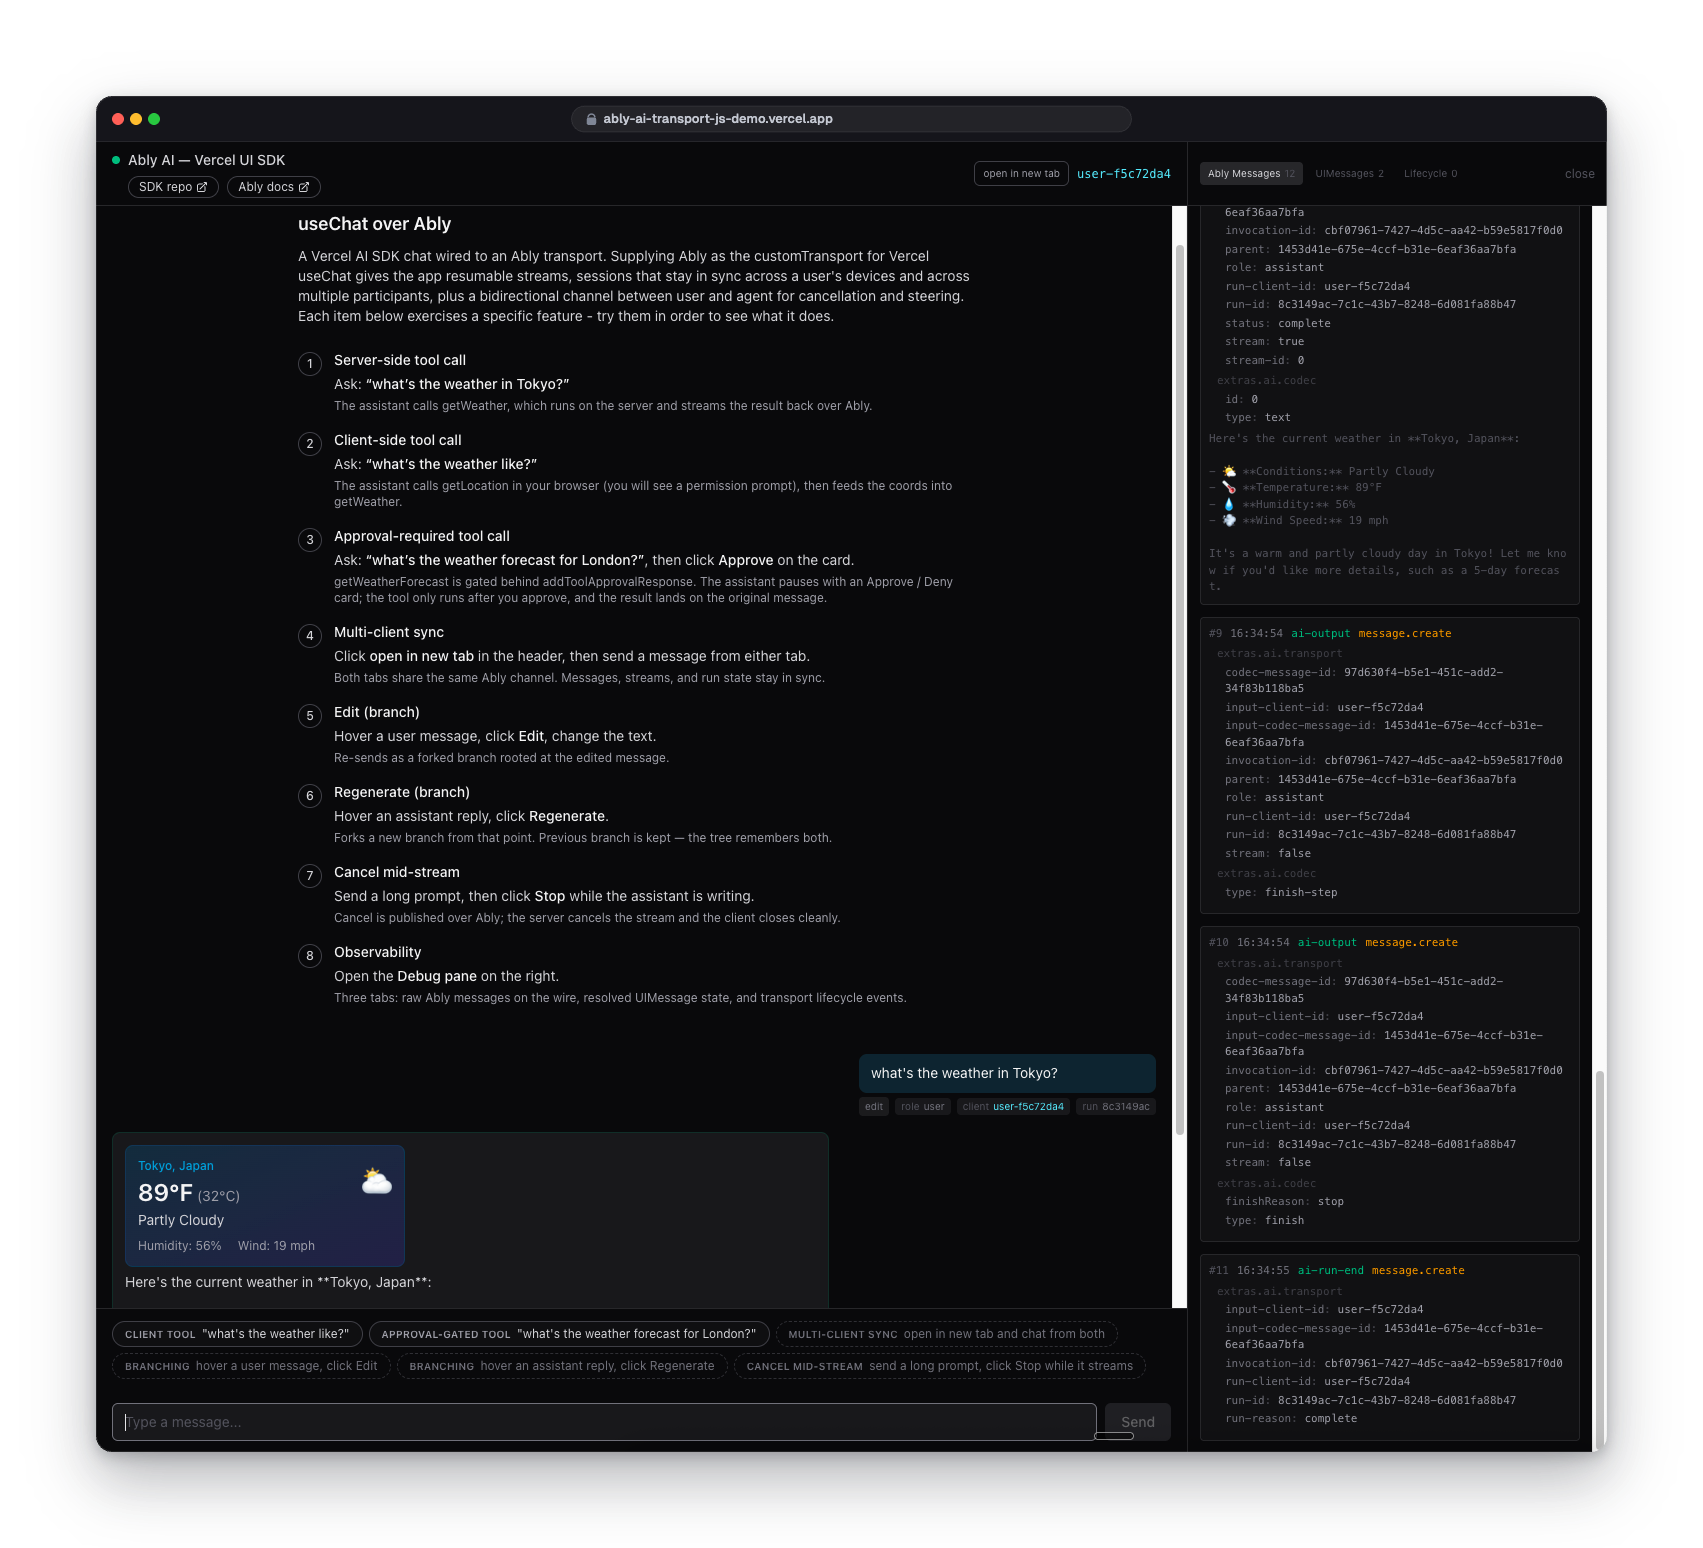
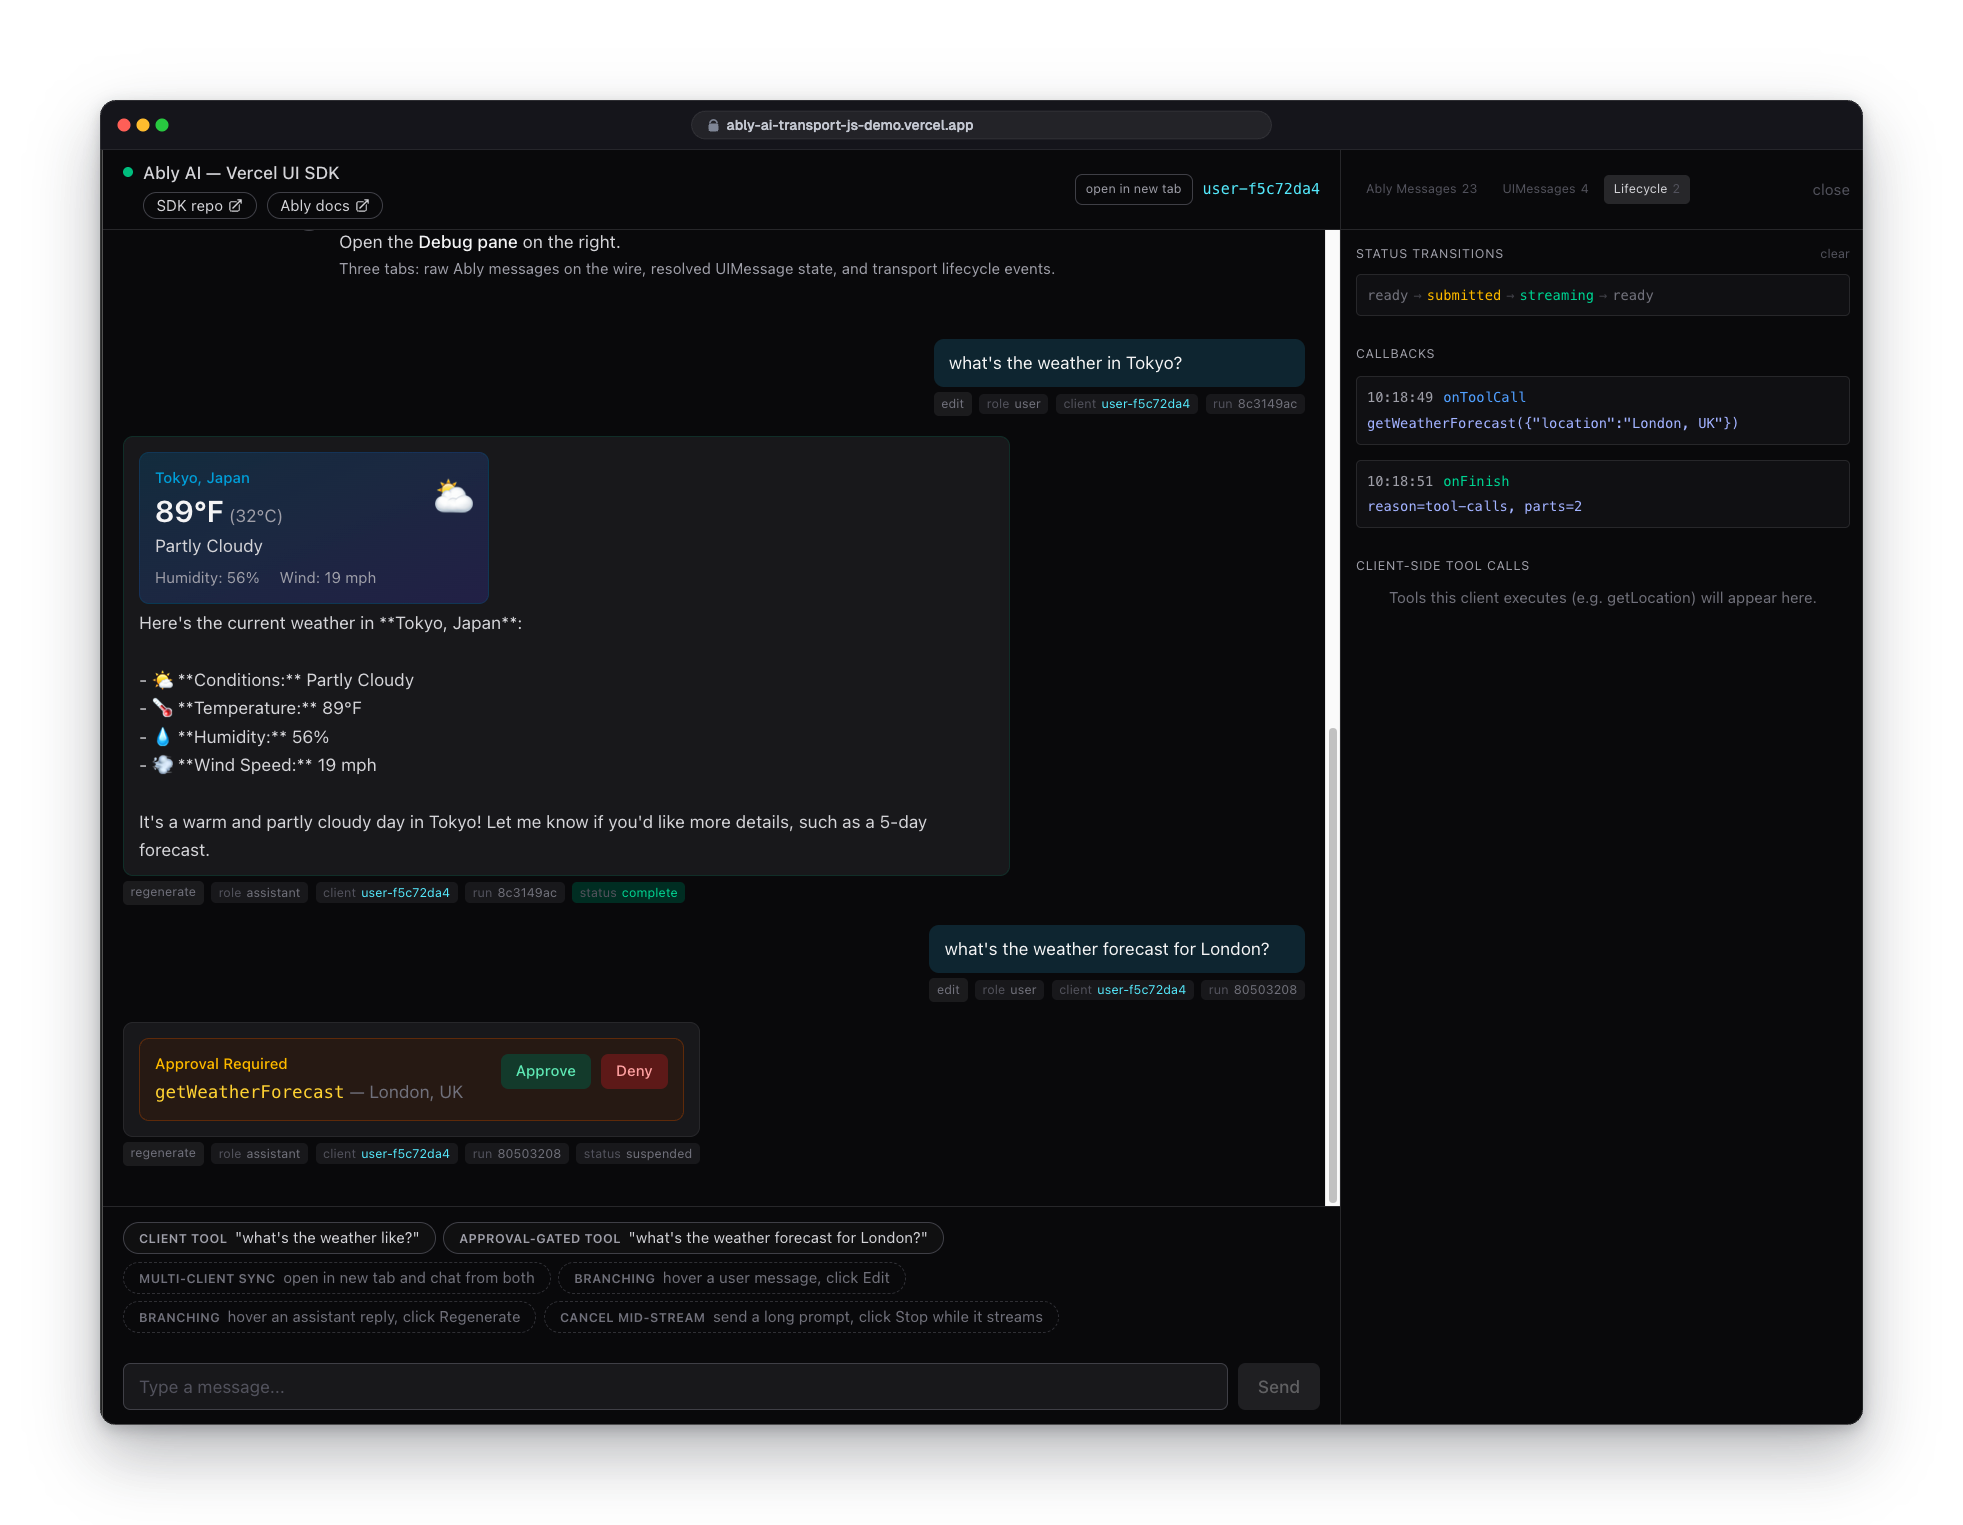
Restructure README and update demo screenshot
Move the Authentication and Environment variables sections below the
local setup steps so the page leads with what the template does and how
to run it. Rename the "Prerequisites" heading to "Requirements" and link
the channel rule directly to the Ably docs. Replace the demo screenshot
with a higher-resolution capture.

Changed region(s): [[0.0311, 0.0616, 0.9648, 0.9554], [0.8714, 0.863, 0.9025, 0.8938]]

diff --git a/README.md b/README.md
@@ -46,30 +46,12 @@ Each fresh browser visit opens a new channel; append `?channel=<name>` to pin a 
 
 The right-hand window shows the messages being sent over the Ably channel. This is additional information to help you understand how the transport is working. You can find full details of the protocol in the [Ably AI Transport docs](https://ably.com/docs/ai-transport).
 
-## Authentication
-
-The server signs a short-lived JWT for the client from the `ABLY_API_KEY`. The token is scoped to the connecting client's `clientId` and to the channel namespace (`<namespace>*`, default `ai:*`). 
-
-The key reaches the server only through the `ABLY_API_KEY` environment variable. Set it in `.env.local` locally, or through the Vercel deploy prompt (`&env=ABLY_API_KEY` on the deploy URL). 
-
-## Environment variables
-
-| Variable           | Required | Description                                                                 |
-| ------------------ | -------- | --------------------------------------------------------------------------- |
-| `ABLY_API_KEY`     | Yes      | [Ably API key](https://ably.com/accounts). Used server-side to sign client JWTs and publish messages. |
-| `ANTHROPIC_API_KEY`| One of   | Anthropic key. Provider priority: Anthropic > AI Gateway > OpenAI.          |
-| `AI_GATEWAY_API_KEY` | One of | Vercel AI Gateway key.                                                      |
-| `OPENAI_API_KEY`   | One of   | OpenAI (or OpenAI-compatible) key.                                          |
-| `NEXT_PUBLIC_ABLY_CHANNEL_NAMESPACE` | No | Channel namespace for AI Transport sessions (default `ai:`). The namespace must have a [channel rule](https://ably.com/docs/ai-transport/getting-started/channel-rules) with "Message annotations, updates, deletes, and appends" enabled. |
-
-Model name and endpoint overrides (`ANTHROPIC_MODEL`, `AI_GATEWAY_MODEL`, `OPENAI_MODEL`, `OPENAI_BASE_URL`) are optional. See [`.env.example`](./.env.example) for the full list and defaults.
-
 ## How to use
 
-### Prerequisites
+### Requirements
 
 - A free [Ably API key](https://ably.com/accounts)
-- The AI Transport channel rule enabled on your namespace (see [Environment variables](#environment-variables))
+- The AI Transport channel rule enabled on your namespace (see [the Ably docs](https://ably.com/docs/ai-transport/getting-started/channel-rules))
 - One AI provider key: Anthropic, OpenAI, or a Vercel AI Gateway key
 
 ### One-click deploy
@@ -99,6 +81,24 @@ npm run dev
 ```
 
 Open <http://localhost:3000>. 
+
+## Authentication
+
+The server signs a short-lived JWT for the client from the `ABLY_API_KEY`. The token is scoped to the connecting client's `clientId` and to the channel namespace (`<namespace>*`, default `ai:*`). 
+
+The key reaches the server only through the `ABLY_API_KEY` environment variable. Set it in `.env.local` locally, or through the Vercel deploy prompt (`&env=ABLY_API_KEY` on the deploy URL). 
+
+## Environment variables
+
+| Variable           | Required | Description                                                                 |
+| ------------------ | -------- | --------------------------------------------------------------------------- |
+| `ABLY_API_KEY`     | Yes      | [Ably API key](https://ably.com/accounts). Used server-side to sign client JWTs and publish messages. |
+| `ANTHROPIC_API_KEY`| One of   | Anthropic key. Provider priority: Anthropic > AI Gateway > OpenAI.          |
+| `AI_GATEWAY_API_KEY` | One of | Vercel AI Gateway key.                                                      |
+| `OPENAI_API_KEY`   | One of   | OpenAI (or OpenAI-compatible) key.                                          |
+| `NEXT_PUBLIC_ABLY_CHANNEL_NAMESPACE` | No | Channel namespace for AI Transport sessions (default `ai:`). The namespace must have a [channel rule](https://ably.com/docs/ai-transport/getting-started/channel-rules) with "Message annotations, updates, deletes, and appends" enabled. |
+
+Model name and endpoint overrides (`ANTHROPIC_MODEL`, `AI_GATEWAY_MODEL`, `OPENAI_MODEL`, `OPENAI_BASE_URL`) are optional. See [`.env.example`](./.env.example) for the full list and defaults.
 
 ## Contributing
 